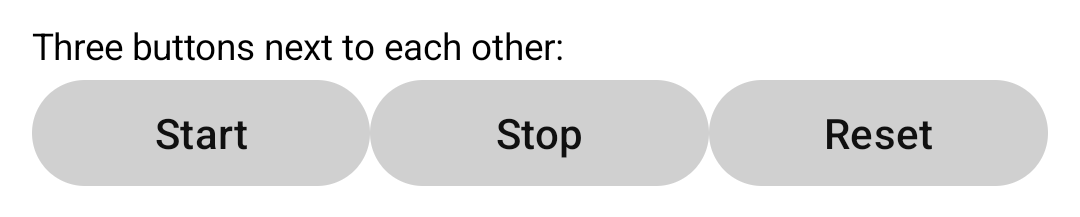
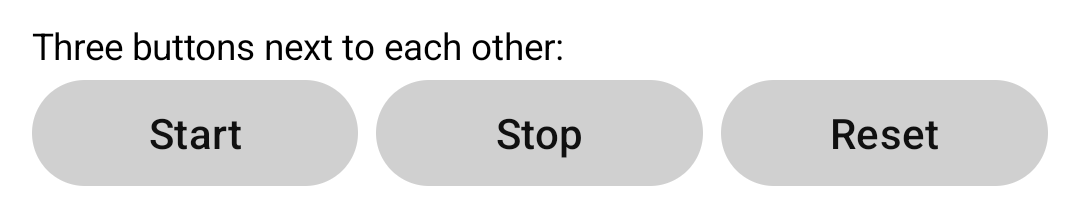
Screenshots: the stack gauge's value centred with align, spacing in the group scenes
The stack scene draws its value inside the stack again, without a label and
centred with align="center", as the gauge example in groups.md does since
align exists. The horizontal and vertical scenes use spacing="0.5" so the
pictures show the gaps between the buttons and between the values, and the
horizontal section's example carries the same attribute so it matches its
screenshot. Recaptured on the phone AVD in both themes.

diff --git a/tools/screenshots/views.py b/tools/screenshots/views.py
@@ -201,12 +201,12 @@ def scenes():
         dict(id="vertical", page="groups",
              containers={"t": t, "x": x, "f": [0.6214], "T": [1.6093], "A": [0.1184]},
              view="""
-<horizontal>
+<horizontal spacing="0.5">
     <graph label="Position" labelX="t" unitX="s" labelY="x" unitY="m" aspectRatio="1.5" weight="3">
         <input axis="x">t</input>
         <input axis="y">x</input>
     </graph>
-    <vertical weight="2">
+    <vertical weight="2" spacing="0.5">
         <value label="f" unit="Hz" precision="3" verticalLayout="true"><input>f</input></value>
         <value label="T" unit="s" precision="3" verticalLayout="true"><input>T</input></value>
         <value label="A" unit="cm" precision="1" factor="100" verticalLayout="true"><input>A</input></value>
@@ -216,7 +216,7 @@ def scenes():
         dict(id="horizontal", page="groups", containers={"run": None, "count": None},
              view="""
 <info label="Three buttons next to each other:" />
-<horizontal>
+<horizontal spacing="0.5">
     <button label="Start"><input type="value">1</input><output>run</output></button>
     <button label="Stop"><input type="value">0</input><output>run</output></button>
     <button label="Reset"><input type="value">0</input><output>count</output></button>
@@ -240,8 +240,8 @@ def scenes():
         <input as="rotate" min="0" max="100" mapMin="-2.35" mapMax="2.35" clamp="true">percent</input>
         <image src="gauge-needle.png" scale="0.8" />
     </transform>
+    <value label="" unit="%" size="2" precision="0" align="center"><input>percent</input></value>
 </stack>
-<value label="Level" unit="%" precision="0"><input>percent</input></value>
 """),
     ]
 

diff --git a/docs/file-format/views/groups.md b/docs/file-format/views/groups.md
@@ -71,7 +71,7 @@ widths; the *weight* attribute on a child changes its share.
 ```xml
 <view label="Controls">
     <info label="Three buttons next to each other:" />
-    <horizontal>
+    <horizontal spacing="0.5">
         <button label="Start"><input type="value">1</input><output>run</output></button>
         <button label="Stop"><input type="value">0</input><output>run</output></button>
         <button label="Reset"><input type="value">0</input><output>count</output></button>
